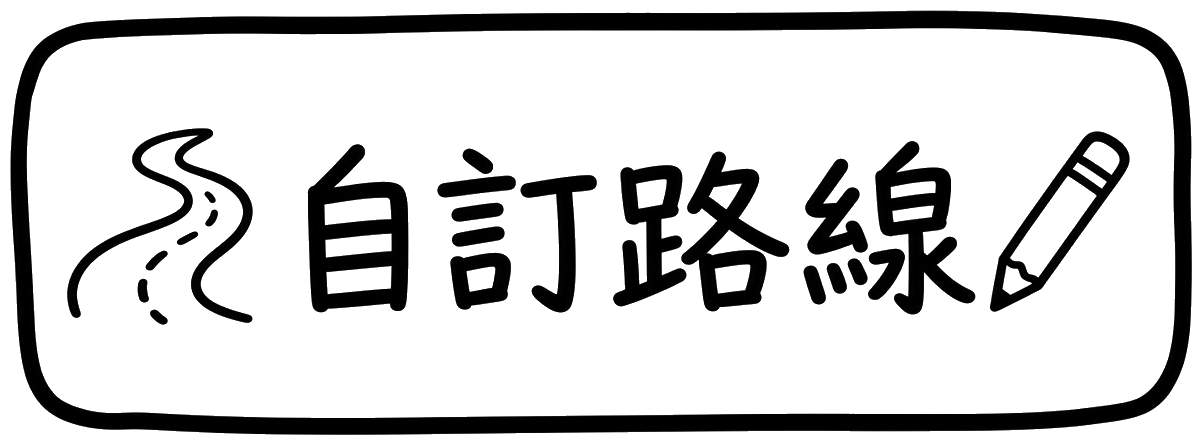
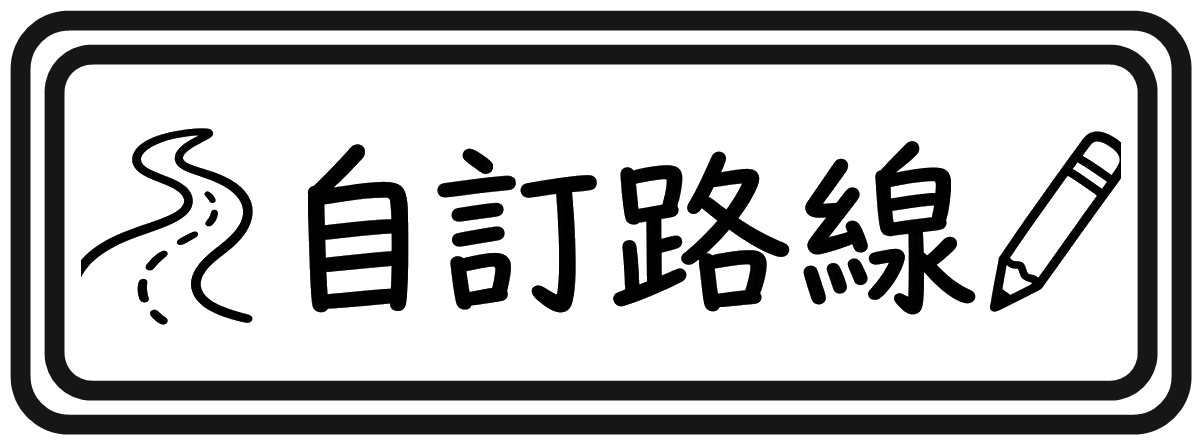
統一目錄按鈕雙層邊框，並將遊戲名稱改為 SymbolsTD。

Changed region(s): [[0.0, 0.0, 1.0, 0.9933]]

diff --git a/index.html b/index.html
@@ -9,12 +9,12 @@
   <meta name="mobile-web-app-capable" content="yes" />
   <meta name="apple-mobile-web-app-status-bar-style" content="black-translucent" />
   <meta name="description" content="直式塔防小遊戲，可透過 Capacitor 打包，並預留 Google AdMob 獎勵與插頁廣告。" />
-  <title>幻想 TD</title>
+  <title>SymbolsTD</title>
   <link rel="stylesheet" href="style.css" />
 </head>
 <body>
   <div id="app">
-    <h1 class="sr-only">幻想 TD</h1>
+    <h1 class="sr-only">SymbolsTD</h1>
 
     <section id="screen-welcome" class="screen screen-welcome">
       <div class="welcome-stage">
@@ -32,28 +32,28 @@
       <div class="screen-head menu-head">
         <button type="button" class="icon-btn" id="btn-menu-back" aria-label="返回歡迎頁">‹</button>
         <div>
-          <p class="screen-kicker">幻想 TD</p>
+          <p class="screen-kicker">SymbolsTD</p>
           <h2>目錄</h2>
         </div>
       </div>
       <div class="menu-actions">
         <button type="button" class="doodle-btn" id="btn-mode-campaign" aria-label="關卡爬塔">
-          <img src="assets/ui/btn-mode-campaign.png" alt="關卡爬塔" />
+          <img src="assets/ui/btn-mode-campaign.png?v=11" alt="關卡爬塔" />
         </button>
         <button type="button" class="doodle-btn" id="btn-mode-custom" aria-label="自訂路線">
-          <img src="assets/ui/btn-mode-custom.png" alt="自訂路線" />
+          <img src="assets/ui/btn-mode-custom.png?v=11" alt="自訂路線" />
         </button>
         <button type="button" class="doodle-btn" id="btn-mode-infinite" aria-label="無限隨機">
-          <img src="assets/ui/btn-mode-infinite.png" alt="無限隨機" />
+          <img src="assets/ui/btn-mode-infinite.png?v=11" alt="無限隨機" />
         </button>
         <button type="button" class="doodle-btn" id="btn-open-codex" aria-label="怪圖鑑">
-          <img src="assets/ui/btn-codex.png" alt="怪圖鑑" />
+          <img src="assets/ui/btn-codex.png?v=11" alt="怪圖鑑" />
         </button>
         <button type="button" class="doodle-btn" id="btn-open-towers" aria-label="塔明細">
-          <img src="assets/ui/btn-towers.png" alt="塔明細" />
+          <img src="assets/ui/btn-towers.png?v=11" alt="塔明細" />
         </button>
         <button type="button" class="doodle-btn" id="btn-open-hell" aria-label="地獄詞綴">
-          <img src="assets/ui/btn-hell-deff.png?v=4" alt="地獄詞綴" />
+          <img src="assets/ui/btn-hell-deff.png?v=11" alt="地獄詞綴" />
         </button>
       </div>
     </section>

diff --git a/game.js b/game.js
@@ -1,5 +1,5 @@
 /**
- * 幻想 TD — portrait tower defense.
+ * SymbolsTD — portrait tower defense.
  * Grid map, BFS route, two towers, waves, projectiles, economy.
  * Ads go through window.AdManager (see admob-bridge.js).
  */
